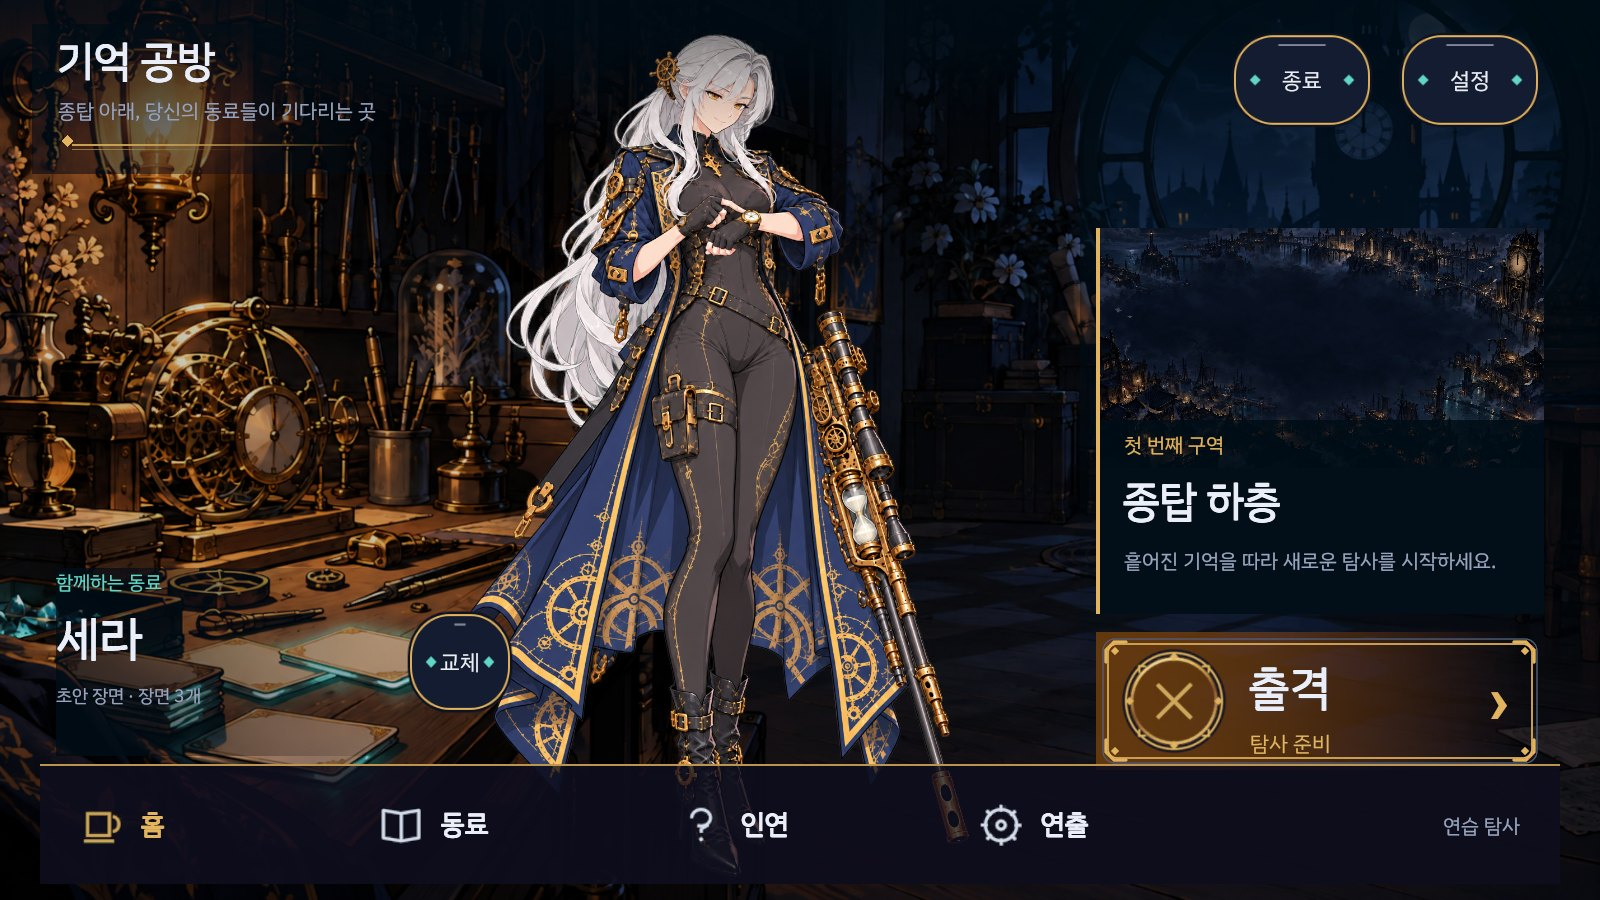
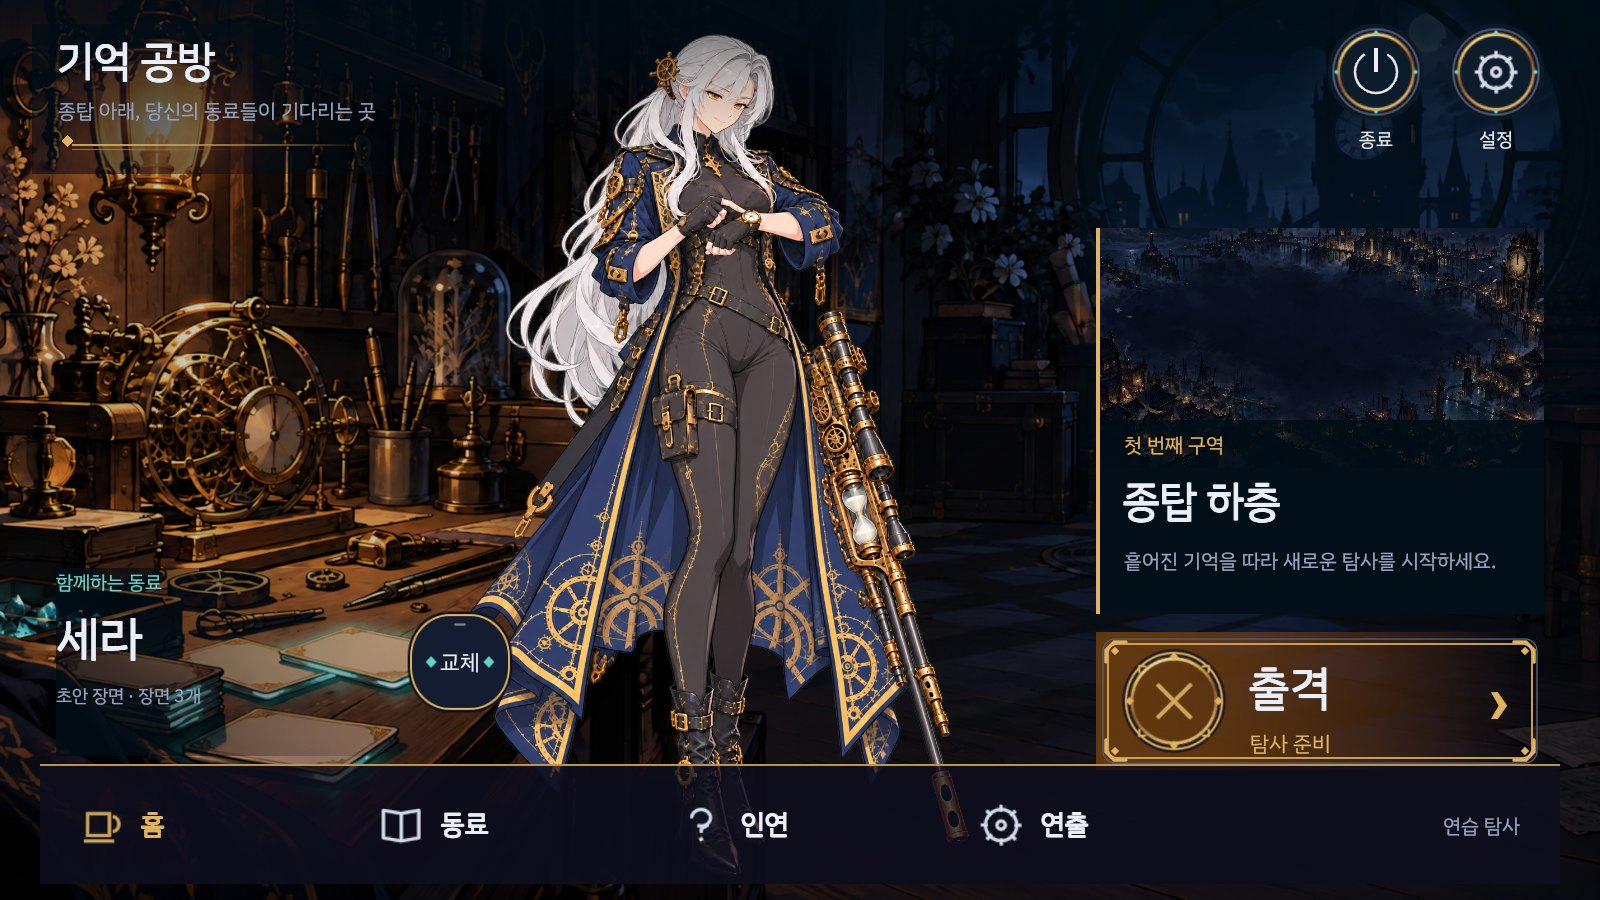
Make the home utility controls belong to the clockwork workshop
The user rejected plain exit/settings controls. Use filled circular faces,
the existing brass rim, recognizable power/gear glyphs and small Korean labels.
Reuse the cached UI circle primitive and preserve actions, touch targets and
modal input isolation.

Rejected: Flat text rectangles | user found them too much like prototype controls
Confidence: high
Scope-risk: narrow
Tested: Targeted lifecycle/navigation/capture 19/19; aligned icon capture; independent Claude High review; fresh guarded Android build and phone settings smoke
Not-tested: Repeating the full 353-test suite after this presentation-only change; native desktop quit process

Changed region(s): [[0.75, 0.0311, 0.9688, 0.1867]]

diff --git a/client/MemoryForgeUnity/Assets/Scripts/MemoryForgeLobbyClient.cs b/client/MemoryForgeUnity/Assets/Scripts/MemoryForgeLobbyClient.cs
@@ -152,8 +152,9 @@ namespace MemoryForge.Client
             Label(side, "기억 공방", 56, 30, 480, 64, 42, Ink, FontStyle.Bold);
             Label(side, "종탑 아래, 당신의 동료들이 기다리는 곳", 58, 96, 620, 36, 20, Muted);
             Ornament(side, 58, 144, 310);
-            Button(side, "OpenSettings", "설정", 1396, 24, 148, 112, () => Toggle(settingsPanel), Line, 22);
-            if (!Application.isMobilePlatform) Button(side, "QuitGame", "종료", 1228, 24, 148, 112, Application.Quit, Line, 22);
+            float utilitySize = Math.Max(96, TouchUnits());
+            UtilityButton(side, "OpenSettings", "설정", 1544 - utilitySize, utilitySize, () => Toggle(settingsPanel), true);
+            if (!Application.isMobilePlatform) UtilityButton(side, "QuitGame", "종료", 1520 - utilitySize * 2, utilitySize, Application.Quit, false);
 
             var destination = Box(side, "ExpeditionDestination", 1096, 228, 448, 386, Panel);
             var map = SpriteAt("Art/Backgrounds/bg_zone1_map");
@@ -214,6 +215,27 @@ namespace MemoryForge.Client
             leaving = true; veil.blocksRaycasts = true; player.Stop();
             yield return MemoryForgeUiMotion.Fade(veil, 0, 1, 0.3f);
             SceneManager.LoadScene(ExpeditionScene);
+        }
+
+        void UtilityButton(Transform parent, string name, string caption, float x, float size, Action click, bool settings)
+        {
+            var button = Button(parent, name, "", x, 24, size, size + 36, click, Color.clear);
+            var face = Box(button.transform, "Face", 0, 0, size, size, Hex("111b2a"));
+            face.GetComponent<Image>().sprite = MemoryForgeExpeditionClient.Pill(0);
+            button.targetGraphic = face.GetComponent<Image>();
+            Kit(button.transform, "BrassRim", "ui_portrait_ring", Vector4.zero, 0, 0, size, size, 160);
+            if (settings) Glyph(button.transform, "ico_node_forge", (size - 44) / 2, (size - 44) / 2, 44, Ink);
+            else
+            {
+                var icon = Box(button.transform, "Power", (size - 44) / 2, (size - 44) / 2, 44, 44, Color.clear);
+                var arc = Box(icon, "Arc", 0, 0, 44, 44, Ink);
+                arc.pivot = new Vector2(0.5f, 0.5f); arc.anchoredPosition = new Vector2(22, -22); arc.localRotation = Quaternion.Euler(0, 0, -32.4f);
+                var image = arc.GetComponent<Image>(); image.sprite = MemoryForgeExpeditionClient.Pill(3);
+                image.type = Image.Type.Filled; image.fillMethod = Image.FillMethod.Radial360;
+                image.fillOrigin = (int)Image.Origin360.Top; image.fillClockwise = true; image.fillAmount = 0.82f;
+                Box(icon, "Stem", 20, -2, 4, 24, Ink);
+            }
+            Label(button.transform, caption, -8, size + 4, size + 16, 30, 19, Ink, FontStyle.Normal, TextAnchor.MiddleCenter);
         }
 
         // 출격: a framed glass band (the kit's ornate panel frame) lit brass from the left, its glyph in the kit's ready ring, the title,

diff --git a/client/MemoryForgeUnity/Assets/Scripts/MemoryForgeExpeditionClient.cs b/client/MemoryForgeUnity/Assets/Scripts/MemoryForgeExpeditionClient.cs
@@ -3567,7 +3567,7 @@ namespace MemoryForge.Client
         static readonly Dictionary<string, Sprite> shapes = new Dictionary<string, Sprite>(StringComparer.Ordinal);
         // Ring widths are kept to half pixels, so every size of panel or pill shares a handful of textures.
         static Sprite Rounded(float ring) { float w = Mathf.Round(ring * 2) / 2; return Shape("r" + w, 48, 48, 14, (x, y) => Corner(x, y, 48, 14, w)); }
-        static Sprite Pill(float ring) { float w = Mathf.Round(ring * 2) / 2; return Shape("p" + w, 64, 64, 31, (x, y) => Corner(x, y, 64, 32, w)); }
+        internal static Sprite Pill(float ring) { float w = Mathf.Round(ring * 2) / 2; return Shape("p" + w, 64, 64, 31, (x, y) => Corner(x, y, 64, 32, w)); }
         static Sprite Diamond => Shape("d", 64, 64, 0, (x, y) => (32 - Math.Abs(x - 32) - Math.Abs(y - 32)) * 0.7f + 0.5f);
         static Sprite Halo => Shape("g", 64, 64, 0, (x, y) => { float d = Mathf.Clamp01(Mathf.Sqrt((x - 32) * (x - 32) + (y - 32) * (y - 32)) / 32); return (1 - d) * (1 - d); });
         // A rounded ring with a diamond on each corner: the framed panels' edge.

diff --git a/reports/home_hub_20261021/README.md b/reports/home_hub_20261021/README.md
@@ -48,3 +48,9 @@ The final IL2CPP ARM64 development APK was built with the packaging guard, insta
 These are agent-operated device smoke checks, not a user's visual acceptance or a complete expedition playthrough. Account-owned roster, editable party, the three missing imported portraits and balance-stage2 remain separate.
 
 The short expedition map and first battle were also entered on the phone. Selecting Sera's attack showed the target HP24→16 with the correct highlighted segment; a real1300ms held touch displayed the long-press peek. The run retained0 InvalidCastException and0 Unity error lines. Ultimate cut-in and simultaneous two-finger input remain automated-suite evidence, not a claim of physical-phone acceptance.
+
+## User follow-up: utility controls
+
+The user rejected the plain exit/settings controls. They now use filled dark circular faces, the existing brass portrait rim, a gear/power icon and a small Korean label. The existing cached circle/ring shape is reused; no new asset, dependency or action was introduced. The review approved behavior and flagged the power-gap direction, which was aligned in the final capture. Targeted lifecycle/navigation/capture19/19 and final icon capture1/1 passed. The full353-test result above precedes this presentation-only adjustment; it is not represented as a second full run.
+
+The circular-control APK was rebuilt and installed; installed bytes again match its SHA256. Fresh launch and icon→settings→close were checked on the phone with0 Unity error lines. The prior complete navigation/HP-preview/held-peek receipt is preserved under `previous_accepted_apk` rather than attributed to this later APK.
